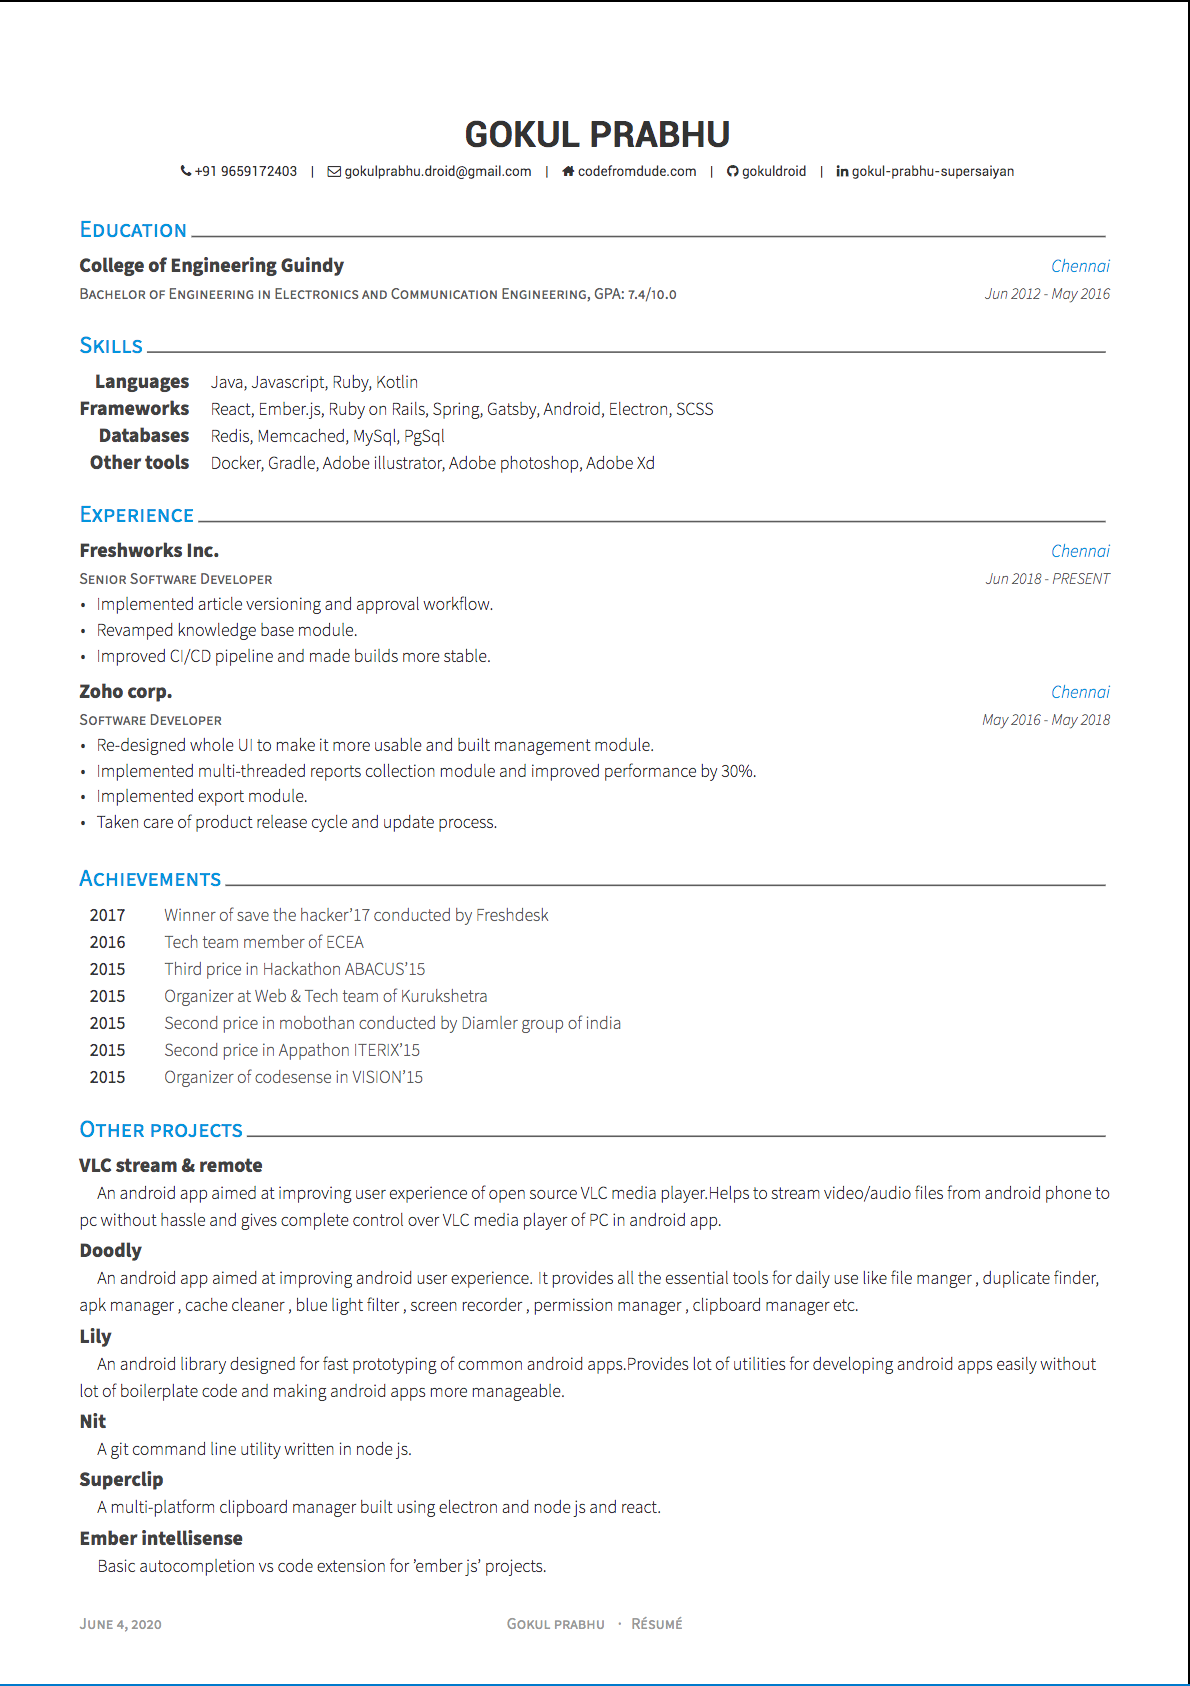
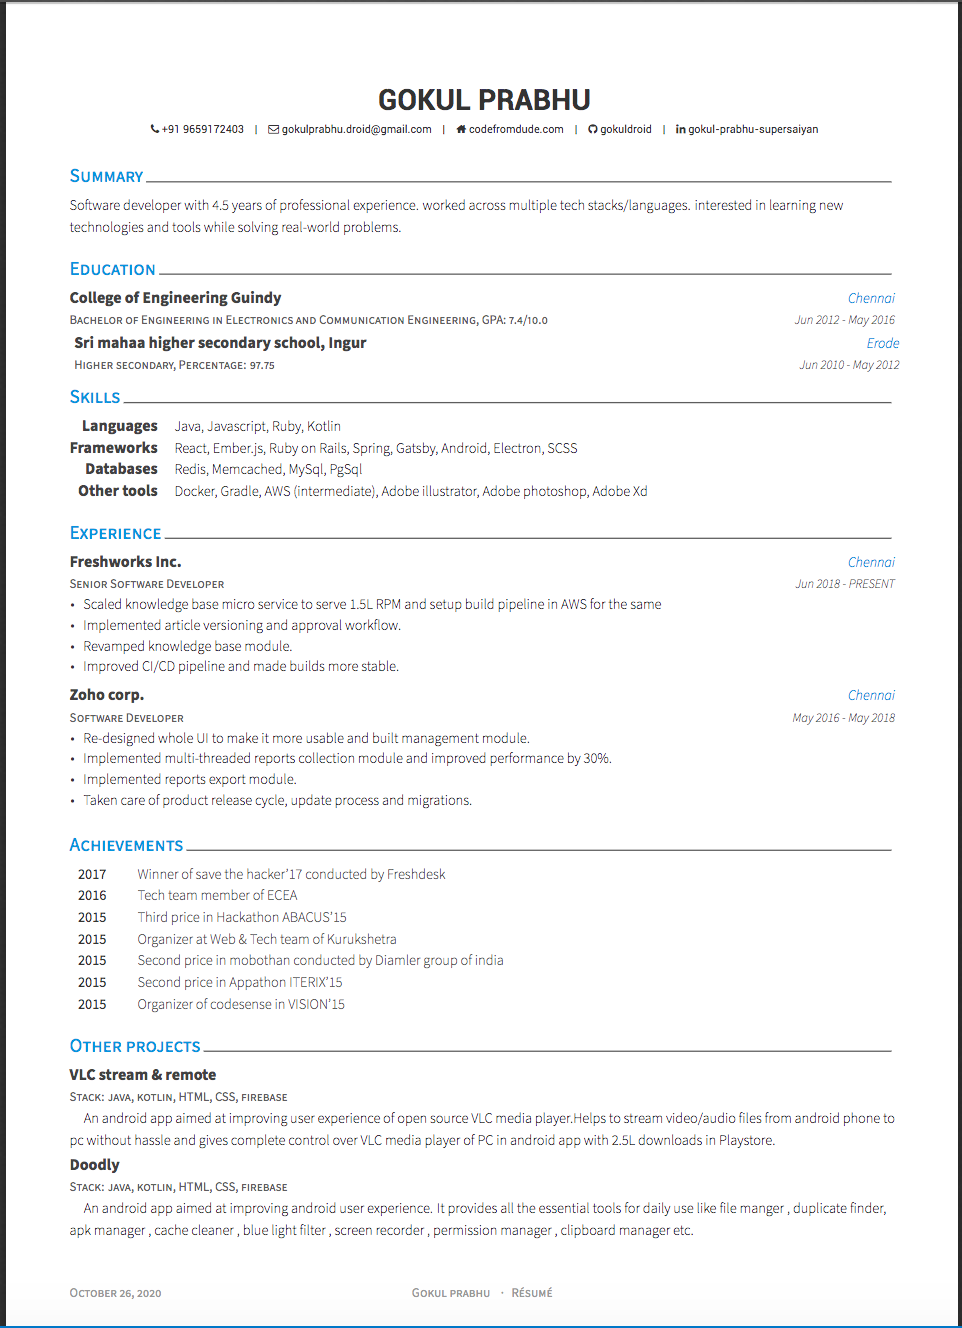
fix: png links

diff --git a/resume/experience.tex b/resume/experience.tex
@@ -8,9 +8,9 @@
     {Jun 2018 - PRESENT} % Date(s)
     {
       \begin{cvitems} % Description(s) of tasks/responsibilities
-        \item {Scaled knowledgebase micro service to serve 1.5L RPM and setup build pipeline to AWS for the same}
+        \item {Scaled knowledge base micro service to serve 1.5L RPM and setup build pipeline in AWS for the same}
         \item {Implemented article versioning and approval workflow.}
-        \item {Revamped knowledgebase module.}
+        \item {Revamped knowledge base module.}
         \item {Improved CI/CD pipeline and made builds more stable.}
       \end{cvitems}
     }

diff --git a/resume/skills.tex b/resume/skills.tex
@@ -15,6 +15,6 @@
 
   \cvskill
     {Other tools} % Type
-    {Docker, Gradle, Adobe illustrator, Adobe photoshop, Adobe Xd, AWS (intermediate)} % Skillset
+    {Docker, Gradle, AWS (intermediate), Adobe illustrator, Adobe photoshop, Adobe Xd} % Skillset
   
 \end{cvskills}

diff --git a/README.md b/README.md
@@ -7,6 +7,10 @@ View the [PDF](https://docs.google.com/viewer?url=https://raw.githubusercontent.
   <img alt="Résumé" src="https://raw.githubusercontent.com/gokuldroid/resume/master/resume.png" width="70%" />
 </div>
 
+<div align="center">
+  <img alt="Résumé" src="https://raw.githubusercontent.com/gokuldroid/resume/master/resume1.png" width="70%" />
+</div>
+
 ```sh
 miktex-xelatex resume.tex
 ```
